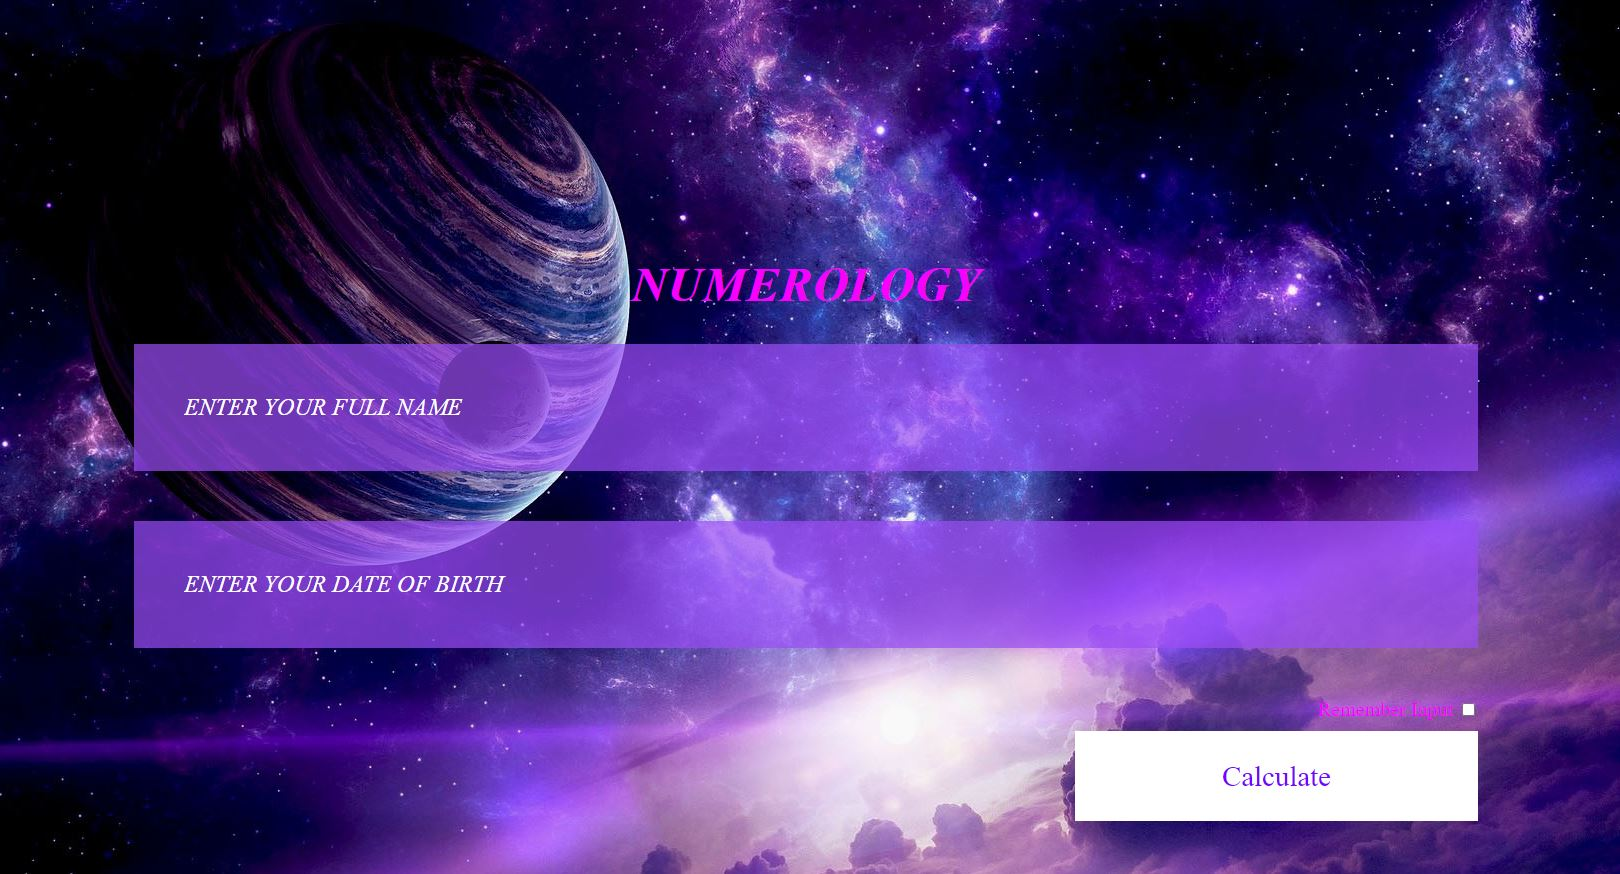
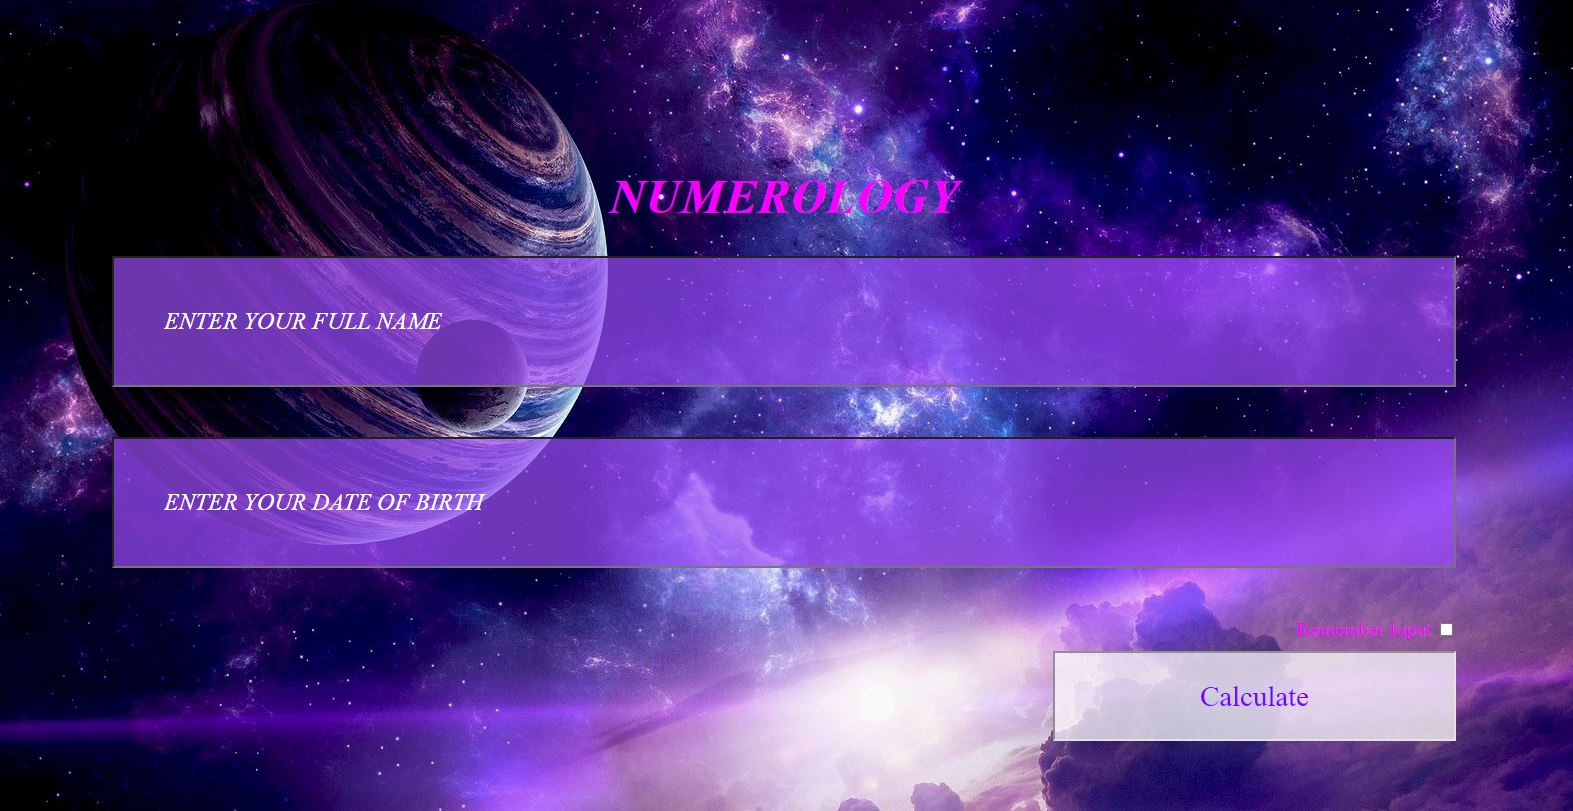
cover css moved to style folder

diff --git a/index.html b/index.html
@@ -7,22 +7,7 @@
     <meta name="viewport" content="width=device-width, initial-scale=1.0">
     <link href="https://cdn.jsdelivr.net/npm/bootstrap@5.0.2/dist/css/bootstrap.min.css" rel="stylesheet" integrity="sha384-EVSTQN3/azprG1Anm3QDgpJLIm9Nao0Yz1ztcQTwFspd3yD65VohhpuuCOmLASjC" crossorigin="anonymous">
     <link rel="stylesheet" href="./css/cover.css">
-    <title>Numerology</title>
-    <style>
-        body,
-        html {
-            height: 100%;
-            margin: 0;
-        }
-
-        .bg {
-            background-image: url("img/Cover.png");
-            height: 100%;
-            background-position: center;
-            background-repeat: no-repeat;
-            background-size: cover;
-        }
-    </style>
+    <title>Cover page</title>
 </head>
 
 <body>

diff --git a/css/cover.css b/css/cover.css
@@ -1,3 +1,18 @@
+body,
+html {
+    height: 100%;
+    margin: 0;
+}
+
+.bg {
+    background-image: url(../img/Cover.png);
+    /*background-image: url(../img/all-planets.webp);*/
+    height: 100%;
+    background-position: center;
+    background-repeat: no-repeat;
+    background-size: cover;
+}
+        
 content {
     background-color: rgb(4, 4, 4);
 }

diff --git a/css/descr.css b/css/descr.css
@@ -1,6 +1,9 @@
+@import url('https://fonts.googleapis.com/css?family=Josefin+Sans');
+
 * {
   box-sizing: border-box;
-  font-family: "Kalam";
+  /*font-family: "Kalam";*/
+  font-family: 'Josefin Sans', sans-serif;
   outline: none;
 }
 

diff --git a/css/calc.css b/css/calc.css
@@ -6,7 +6,7 @@
 
 body {
   margin: 0;
-  background-color: rgb(24, 1, 66);
+  /*background-color: rgb(24, 1, 66);*/
   background-image: url(../img/purple-space.jpg);
   background-repeat: no-repeat;
   background-size: cover;

diff --git a/css/form.css b/css/form.css
@@ -9,7 +9,7 @@
 }
 
 body{
-  background: rgb(27, 23, 87);
+  /*background: rgb(27, 23, 87);*/
   background-image: url(../img/planets-few.jpg);
   background-repeat: no-repeat;
   background-size: cover;
